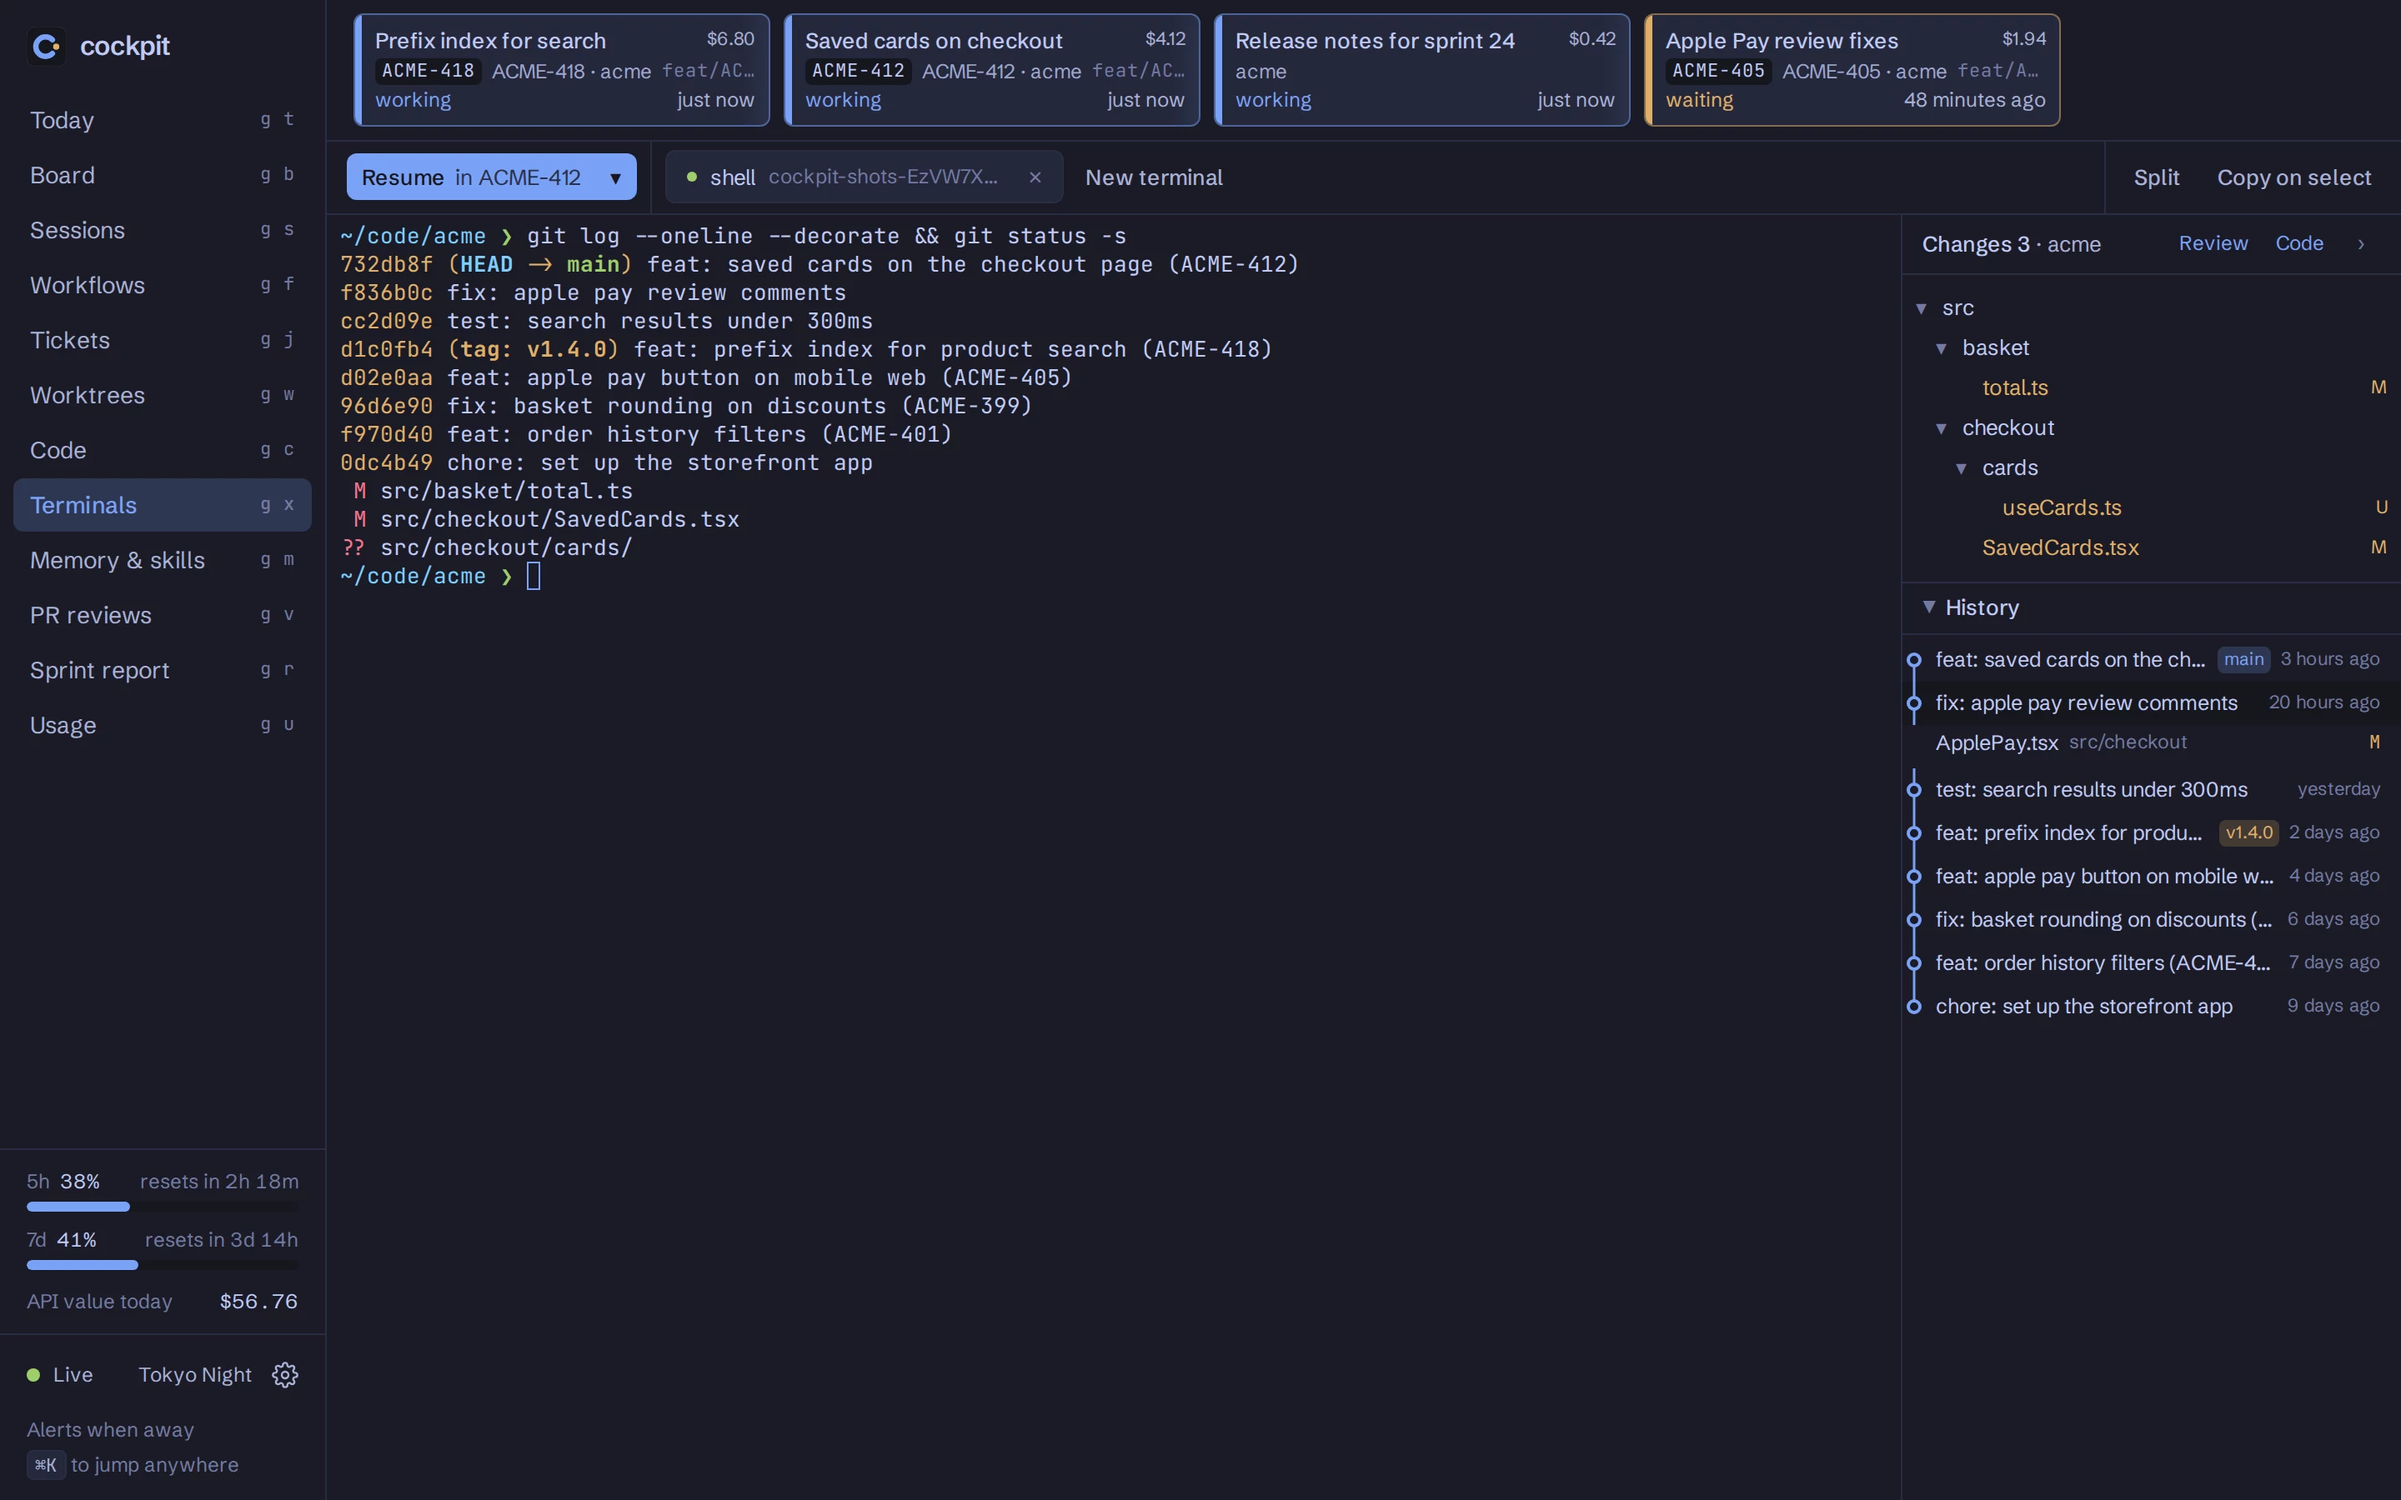
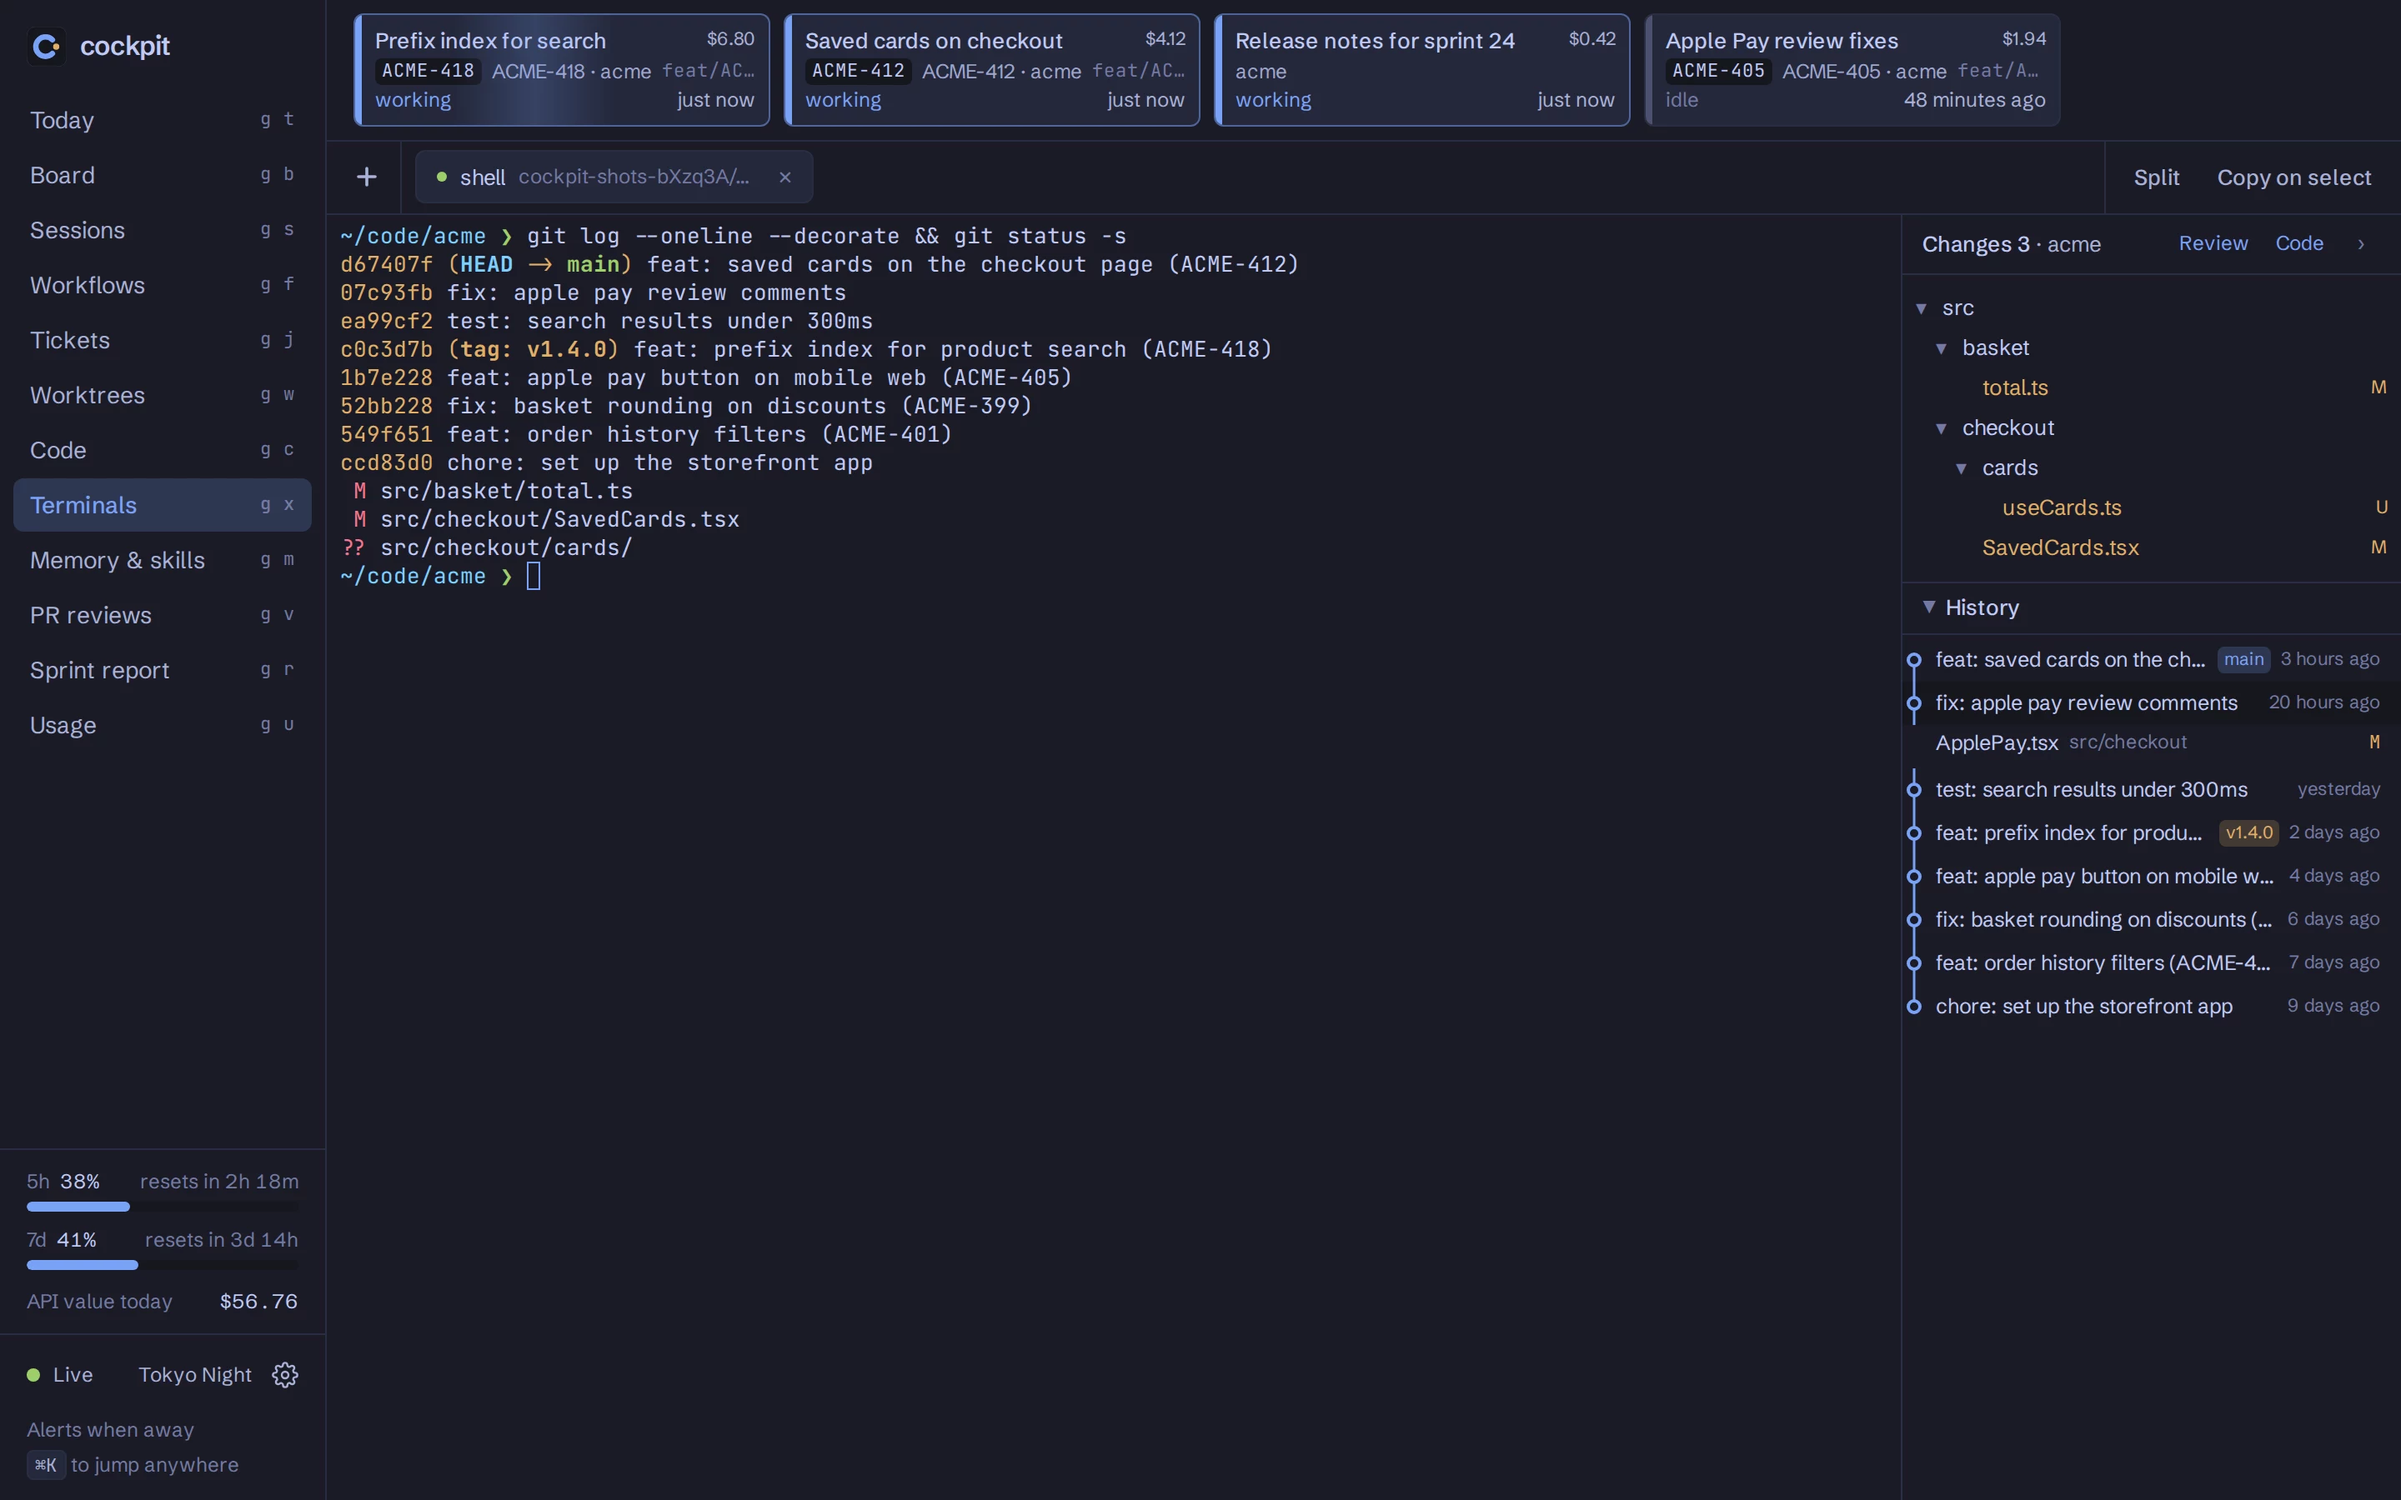
refactor(terminals): replace the resume button with a new terminal button

Changed region(s): [[0.125, 0.0, 0.5, 0.1556], [0.125, 0.1867, 0.1875, 0.3111], [0.6875, 0.0622, 0.7188, 0.0933]]

diff --git a/web/src/pages/Terminals.tsx b/web/src/pages/Terminals.tsx
@@ -5,11 +5,10 @@ import { DiffReview } from "../components/DiffReview";
 import { FileTree } from "../components/FileTree";
 import { GitHistory } from "../components/GitHistory";
 import { Terminal } from "../components/Terminal";
-import { useRecentFolders } from "../components/TerminalLauncher";
 import { Button, Empty, ErrorNote } from "../components/ui";
 import { api } from "../lib/api";
 import { useLiveSessions } from "../lib/live";
-import { launch, launcher, useLauncher } from "../lib/launcher";
+import { launcher } from "../lib/launcher";
 import { useOpenSession } from "../lib/openSession";
 import { termPrefs, useCopyOnSelect } from "../lib/termPrefs";
 import { ago, shortPath } from "../lib/format";
@@ -113,7 +112,16 @@ export function TerminalsPage() {
   return (
     <div className="h-full flex flex-col">
       <div className="flex items-center h-11 border-b border-line bg-panel shrink-0">
-        <QuickClaude />
+        <div className="flex items-center pl-2 pr-1 h-full border-r border-line shrink-0">
+          <button
+            onClick={launcher.open}
+            className="size-8 grid place-items-center rounded-md text-muted hover:text-ink hover:bg-ground"
+            title="New terminal: Claude, resume a session or a shell, in any folder"
+            aria-label="New terminal"
+          >
+            <svg width="16" height="16" viewBox="0 0 16 16" fill="none" stroke="currentColor" strokeWidth="1.8" strokeLinecap="round"><path d="M8 3v10M3 8h10" /></svg>
+          </button>
+        </div>
         <div className="flex items-center gap-1 px-2 h-full overflow-x-auto min-w-0 flex-1">
         {tabs.map((t) => (
           <div
@@ -148,9 +156,6 @@ export function TerminalsPage() {
             </button>
           </div>
         ))}
-        <Button size="sm" variant="ghost" onClick={launcher.open} className="shrink-0">
-          New terminal
-        </Button>
         </div>
         <div className="hidden md:flex items-center gap-1 px-2 h-full border-l border-line shrink-0">
           <Button size="sm" variant={split ? "default" : "ghost"} onClick={() => (split ? setShowSplit(false) : shown.length ? setShowSplit(true) : addPane())} title={split ? "Hide the shells, they keep running" : "A shell in the same folder, side by side"}>
@@ -164,7 +169,7 @@ export function TerminalsPage() {
       <ErrorNote error={resumeErr} />
       <ErrorNote error={splitErr} />
       <div className="flex-1 min-h-0 flex">
-        <div className="flex-1 min-w-0">{active ? <Terminal key={active} id={active} onExit={() => ended(active)} /> : <Empty>No terminals open. Start one in a worktree or from a session.</Empty>}</div>
+        <div className="flex-1 min-w-0">{active ? <Terminal key={active} id={active} onExit={() => ended(active)} /> : <Empty>No terminals open. Start one with + above, in a worktree or from a session.</Empty>}</div>
         {split && active && window.innerWidth >= 768 && (
           <div className="flex-1 min-w-0 flex flex-col border-l border-line">
             {shown.map((p, i) => (
@@ -280,43 +285,5 @@ function ChangesSide({ id, onHide }: { id: string; onHide: () => void }) {
       )}
       {reviewing && d?.root && <DiffReview root={d.root} sessionId={sessionHere?.id} onClose={() => setReviewing(false)} />}
     </aside>
-  );
-}
-
-function QuickClaude() {
-  const navigate = useNavigate();
-  const qc = useQueryClient();
-  const { folders, label, ready } = useRecentFolders();
-  const { last } = useLauncher();
-  const [busy, setBusy] = useState(false);
-  const [err, setErr] = useState<string>();
-  const target = last && (folders.includes(last) || !ready) ? last : folders[0];
-
-  const start = async (cwd: string) => {
-    setBusy(true);
-    setErr(undefined);
-    try {
-      const id = await launch(qc, cwd, "resume", label(cwd));
-      navigate({ to: "/terminals", search: { id } });
-    } catch (e) {
-      setErr(e instanceof Error ? e.message : String(e));
-    } finally {
-      setBusy(false);
-    }
-  };
-
-  return (
-    <div className="relative flex items-center pl-3 pr-2 h-full border-r border-line shrink-0">
-      <div className="flex">
-        <Button size="sm" variant="primary" disabled={!target || busy} onClick={() => target && start(target)} className="rounded-r-none" title={target ? `Pick a session to resume in ${target}` : undefined}>
-          {busy ? "Starting" : "Resume"}
-          {target && <span className="hidden sm:inline font-normal opacity-80 max-w-[140px] truncate">in {label(target)}</span>}
-        </Button>
-        <Button size="sm" variant="primary" onClick={launcher.open} className="rounded-l-none border-l border-on-accent/25 px-1.5" aria-label="Pick a folder">
-          ▾
-        </Button>
-      </div>
-      {err && <span className="ml-2 text-[12px] text-red max-w-[220px] truncate" title={err}>{err}</span>}
-    </div>
   );
 }
